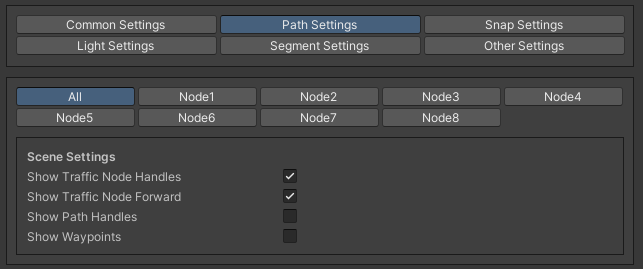
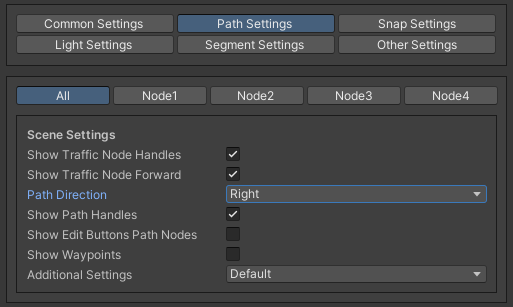
up

Changed region(s): [[0.0, 0.2677, 0.9981, 0.9814], [0.0, 0.0, 0.9981, 0.2379], [0.9045, 0.8625, 0.9357, 0.8922]]

diff --git a/docs/source/roadSegmentCreator.rst b/docs/source/roadSegmentCreator.rst
@@ -272,14 +272,36 @@ New node settings type [custom settings enabled] new :ref:`TrafficNode <trafficN
 	* **Copy last** : will be created with the settings of the last created node.
 	* **Copy selected** : will be created with the settings of the selected node.
 		* **Copy node index**
-		
-Node Handles
+			
+Custom Path Settings
 """"""""""""""
 
 	.. image:: /images/road/roadSegment/creator/RoadSegmentNodeHandles.png
 	
 | **Show traffic node handles** : on/off handles of :ref:`TrafficNodes <trafficNode>`
 | **Show traffic node forward** : on/off display of :ref:`TrafficNode <trafficNode>` forwading.
+
+Additional Settings
+""""""""""""""
+
+.. _extrudeLane:
+
+Extrude Lane
+^^^^^^^^^^^^^^^^^^^^^^
+
+	.. image:: /images/road/roadSegment/creator/ExtrudeLaneSettings.png
+	
+**How to use:**
+	
+#. Drag the green sphere when you want the new lane to start.
+#. Drop the cursor where you want the lane to end.
+#. Adjust the position handle of the new path.
+#. Press `E` key or press `Create` button in the inspector to create new lane.
+	
+.. only:: builder_html
+
+	.. image:: /images/road/roadSegment/creator/ExtrudeLaneExample.gif
+	`Example.`
 	
 Parking Builder
 """"""""""""""

diff --git a/docs/source/changelog.rst b/docs/source/changelog.rst
@@ -10,7 +10,7 @@ Added
 ~~~~~~~~~~~~
  
 * New auto-spline option for `Bezier` curves in the :ref:`Path Creator <pathCreator>`
-* New extrude lane option for :ref:`Custom segment <roadSegmentCreatorCustomSegment>` road in the :ref:`RoadSegmentCreator <roadSegmentCreator>`
+* New :ref:`extrude lane <extrudeLane>` option for :ref:`Custom segment <roadSegmentCreatorCustomSegment>` road in the :ref:`RoadSegmentCreator <roadSegmentCreator>`
 * New divider line for :ref:`Traffic nodes <trafficNode>` & :ref:`Custom straight <roadSegmentCreatorCustomStraight>` roads.
 * New components to interact with :ref:`Hybrid pedestrians <pedestrianHybridLegacy>` from `MonoBehaviour's`.
 * Custom ragdoll user's support for :ref:`Hybrid pedestrians <pedestrianHybridLegacy>`.
